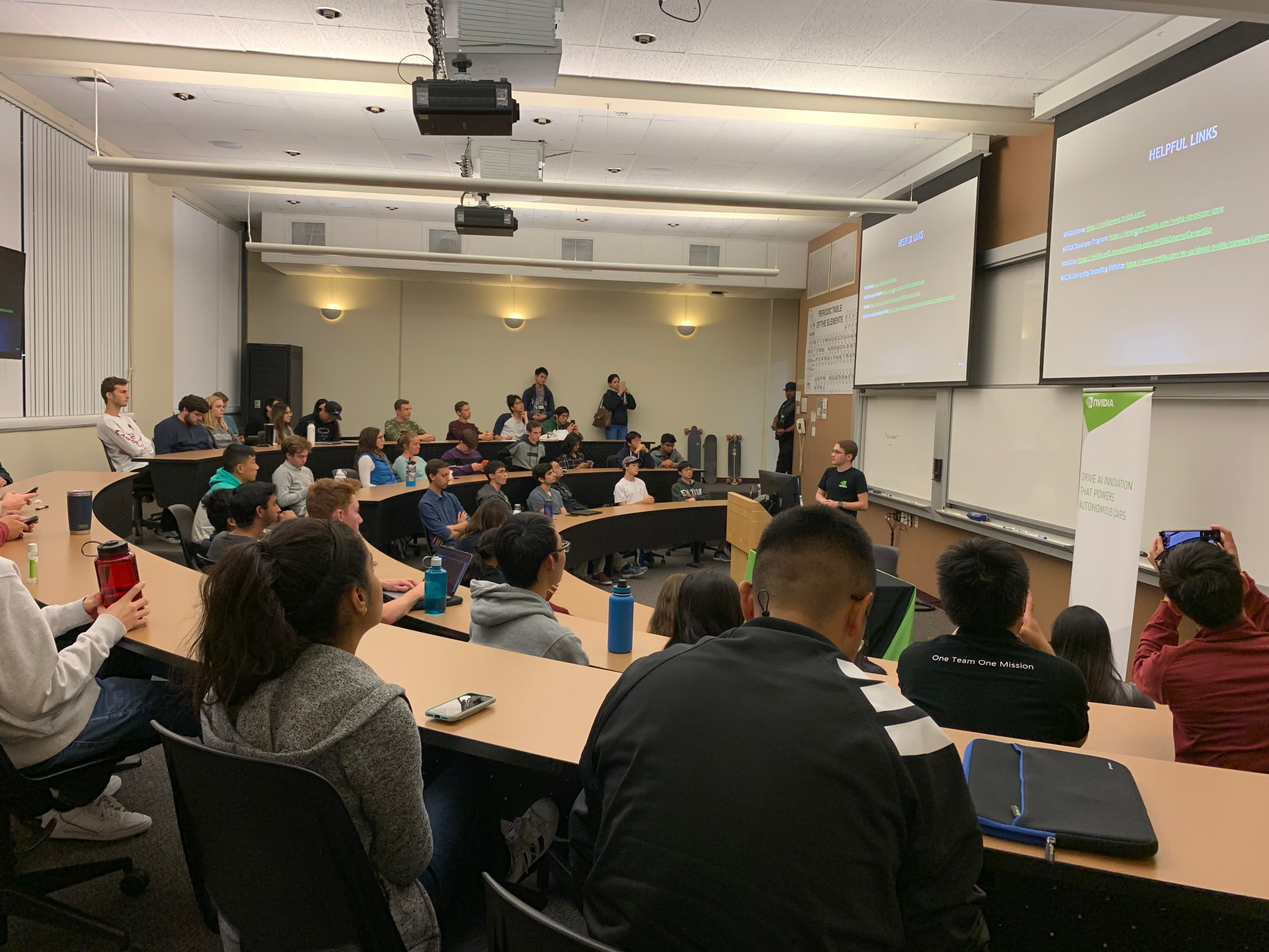
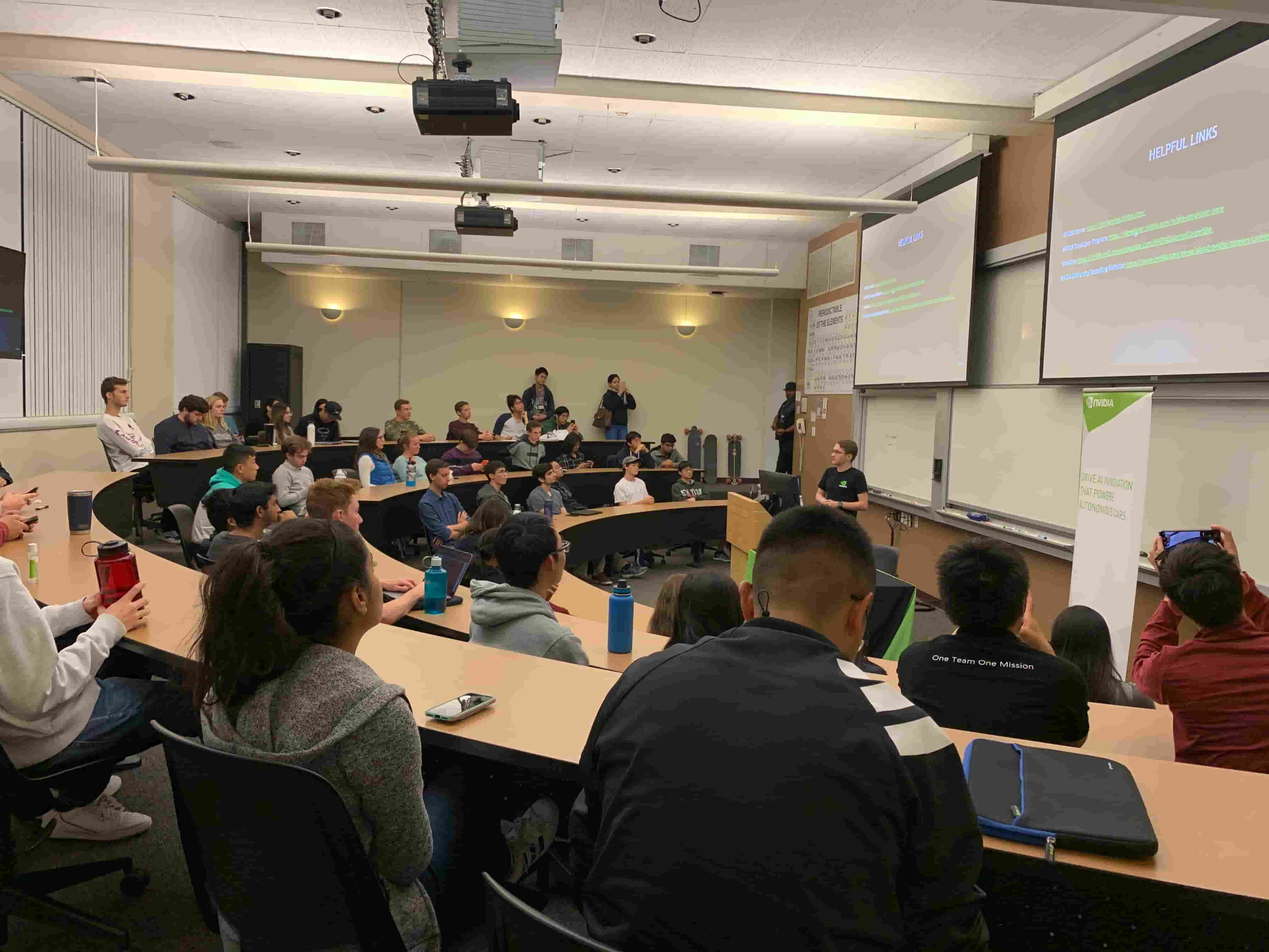
hackathon img

diff --git a/src/pages/Index.vue b/src/pages/Index.vue
@@ -28,7 +28,7 @@
     <div ref="navigation" class="navigation">
       <!-- <Banner
         :show="true"
-        content="Be a part of ACM! Come to our general meetings every Tuesday at 5:45 PM in SCDI 1308."
+        content="Be a part of ACM! Come to our general meetings every Tuesday at 5:45 PM in SCDI 1302."
         link=""
         linkTitle=""
       /> -->
@@ -185,7 +185,7 @@ import image1 from "@/assets/images/FirstGeneral.jpg";
 import image2 from "@/assets/images/Bonfire.jpg";
 import image3 from "@/assets/images/Veritas.jpg";
 
-import hackathon from "@/assets/images/events/hackathon.jpg";
+import hackathon from "@/assets/images/events/hackathon2.jpg";
 import workshop from "@/assets/images/events/workshop.jpg";
 import speaker from "@/assets/images/events/Speaker1.jpg";
 
